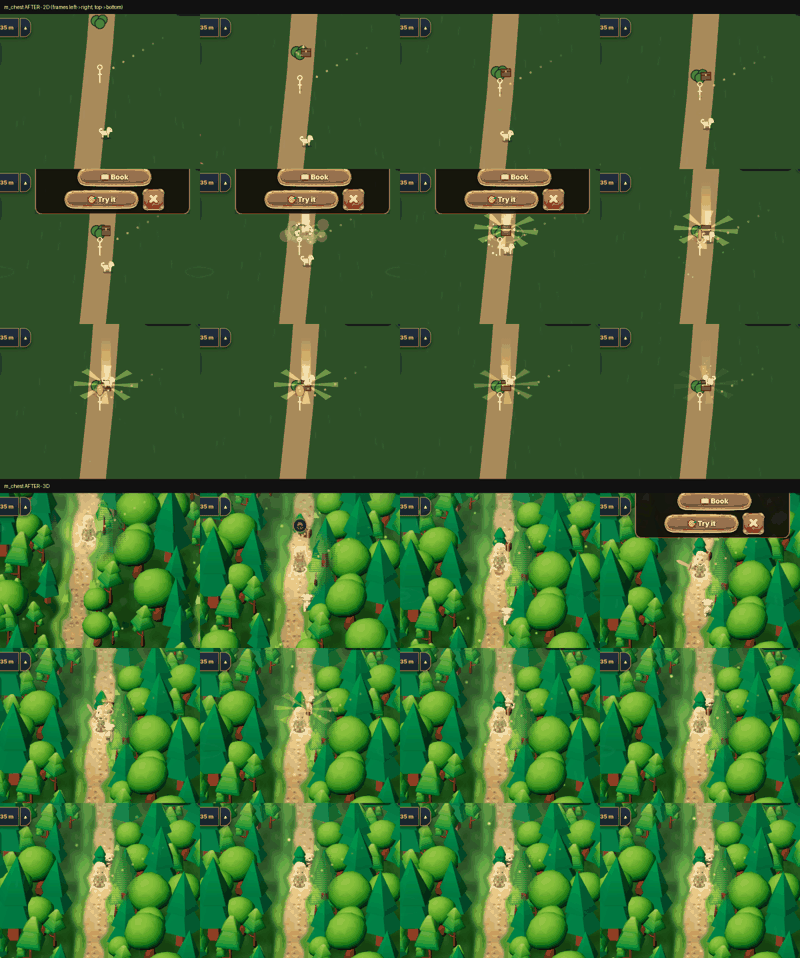
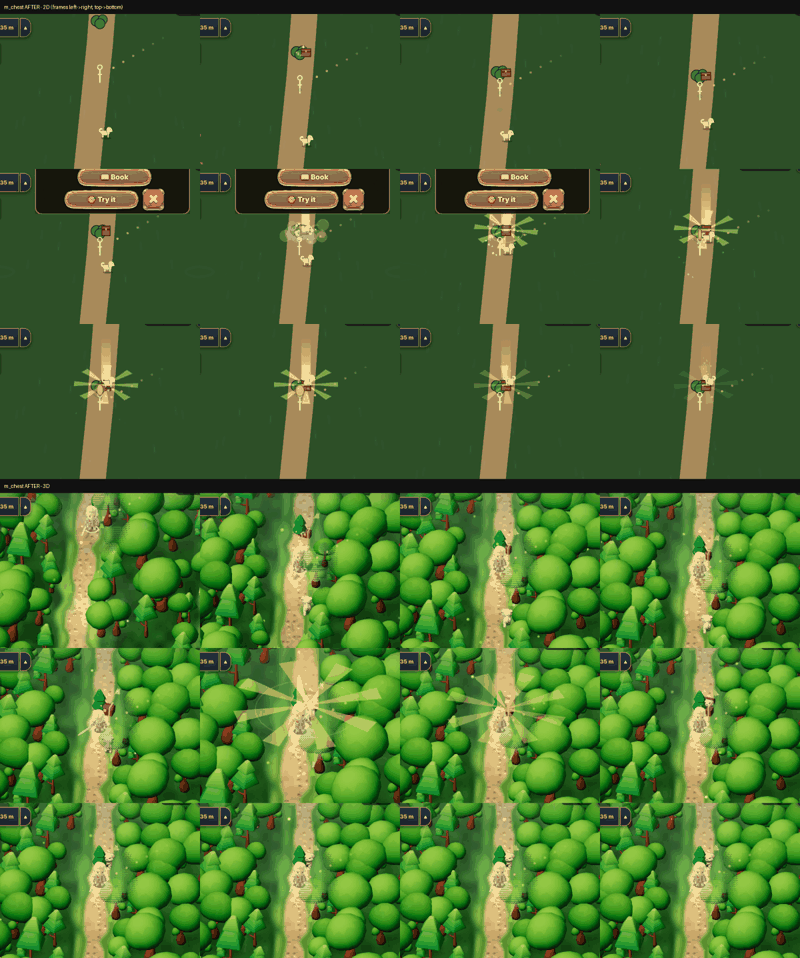
Chest moment: reads in 3D (bigger rays/pillar/ring/stars, larger model, camera nudge), skill reveal and Book card wait for it
Claude-Session: https://claude.ai/code/session_01ABMDoJj4BBf6WyqAyHbxiL

diff --git a/js/chest.js b/js/chest.js
@@ -22,12 +22,23 @@ const CHEST={
   rays:{n:8,len:95,w:0.13,spin:0.5,alpha:0.32,col:'#FFD866',fade:0.6},   // rays: count, length, width (radians), turns/second
   spark:{every:0.12,max:14,rise:38,life:1.4,col:'#FFE7A3',idle:0.9},     // floating sparks after the slam; idle: one every N seconds while waiting
   // equipment chance. tier p = percent for [wood, iron, silver, gold, legendary]; wood gets the rest. The cap is silver (2) in the meadow
+  // 3D (Nir plays in 3D, coordinator 9.11): the chest is small among trees, so the moment is bigger there
+  r3d:{k:1.9,model:1.35,stars:1.8,zoom:1.22,zin:0.25,zhold:0.7,zout:0.45},   // k: rays/pillar/ring size, model: chest scale, stars: star size, zoom: camera nudge (camZoom)
   gear:{chance:0.4,rolls:1,cap:2,p:[0,30,8,0,0]},
   n:0                                 // how many moments played (for the check)
 };
 
 const chOwn=s=>!!CHEST.ids[s.id];
 const chCalm=()=>(typeof calmOn==='function'&&calmOn())||(typeof RM!=='undefined'&&RM);
+// a moment is playing now: the skill reveal and the "Book / Try it" card wait for it (skillreveal.js, skguide.js)
+const chBusy=()=>!!(typeof S!=='undefined'&&S&&S.wd&&S.wd.sc&&S.wd.sc.ch&&Object.keys(S.wd.sc.ch).length);
+// camera nudge in 3D around the slam (camera.js multiplies camZoom by this). Rounded, since every change resizes the canvas
+function chZoom(){
+  if(!R3D.on||!chBusy())return 1;const Z=CHEST.r3d;let k=0;
+  for(const id in S.wd.sc.ch){const c=S.wd.sc.ch[id];if(c.calm)continue;const t=c.t,a=CHEST.t.slam-Z.zin;
+    const e=t<a?0:t<CHEST.t.slam?(t-a)/Z.zin:t<CHEST.t.slam+Z.zhold?1:Math.max(0,1-(t-CHEST.t.slam-Z.zhold)/Z.zout);k=Math.max(k,e*e*(3-2*e))}
+  return Math.round((1+(Z.zoom-1)*k)*50)/50;
+}
 const chSt=()=>{const st=scState();return st.ch||(st.ch={})};   // per world visit: {id:{t,done,sp:[],sl}}
 
 // called from secretsUpdate when the player touches a chest. true = this file handles it
@@ -54,7 +65,7 @@ function chUpdate(dt){
 function chSlam(c,cx,cy){
   const K=CHEST,s=c.s;
   if(!c.calm){jStop(K.stop,true);S.shake=Math.max(S.shake||0,K.shake)}
-  c.ring=0;jBurst(cx,cy-12,K.stars.col,c.calm?Math.round(K.stars.n/2):K.stars.n,null);sfx('hit',1.4);sfx('coin',1.2);
+  c.ring=0;const J=juice().p,j0=J.length;jBurst(cx,cy-12,K.stars.col,c.calm?Math.round(K.stars.n/2):K.stars.n,null);if(R3D.on)for(let i=j0;i<J.length;i++)J[i].sz*=K.r3d.stars;   // 3D: bigger starssfx('hit',1.4);sfx('coin',1.2);
   runGive(SECRETS.chest.loot,cx,cy);
   c.gear=chGear(cx,cy);
   scFind(s,cx,cy,true);   // the counter banner + save. quiet: no generic celebration, this moment replaces it
@@ -89,17 +100,17 @@ function chDraw(){
     const cx=s.x+PROPS3D.chest.dx,cy=s.y;
     // waiting: a soft glint over the lid now and then (the "something's in there")
     if(!c){const ph=now%K.spark.idle,j=Math.floor(now/K.spark.idle);if(!fxLess()&&ph<0.35)scTwinkle(cx+Math.sin(j*2.4)*9,cy-16-Math.abs(Math.cos(j*1.7))*6,ph/0.35);if(two)chBox(cx,cy,{rot:0,sx:1,sy:1,lid:0});continue}
-    const T_=c.calm?K.calmT:K.t,a=c.t-T_.slam,fade=Math.max(0,Math.min(1,(T_.end-c.t)/K.rays.fade));
+    const T_=c.calm?K.calmT:K.t,a=c.t-T_.slam,g=R3D.on?K.r3d.k:1,fade=Math.max(0,Math.min(1,(T_.end-c.t)/K.rays.fade));
     // 4. gold light from inside: a soft pillar and slow turning rays
     if(c.done&&fade>0){ctx.save();ctx.globalCompositeOperation='lighter';
-      const k=Math.min(1,a/0.15),R=K.rays,spin=c.calm?0:a*R.spin*6.28;ctx.globalAlpha=R.alpha*k*fade;ctx.fillStyle=R.col;
+      const k=Math.min(1,a/0.15),R=K.rays,spin=c.calm?0:a*R.spin*6.28,len=R.len*g;ctx.globalAlpha=Math.min(1,R.alpha*(R3D.on?1.6:1))*k*fade;ctx.fillStyle=R.col;
       const n=fxLess()?Math.ceil(R.n/2):R.n;
       for(let i=0;i<n;i++){const an=spin+i*6.28/n;ctx.beginPath();ctx.moveTo(cx,cy-10);
-        ctx.lineTo(cx+Math.cos(an-R.w)*R.len*k,cy-10+Math.sin(an-R.w)*R.len*k*0.6);ctx.lineTo(cx+Math.cos(an+R.w)*R.len*k,cy-10+Math.sin(an+R.w)*R.len*k*0.6);ctx.fill()}
-      const gr=ctx.createLinearGradient(0,cy-150,0,cy);gr.addColorStop(0,'rgba(255,216,102,0)');gr.addColorStop(1,R.col);
-      ctx.globalAlpha=0.45*k*fade;ctx.fillStyle=gr;ctx.fillRect(cx-14,cy-150,28,150);ctx.restore()}
+        ctx.lineTo(cx+Math.cos(an-R.w)*len*k,cy-10+Math.sin(an-R.w)*len*k*0.6);ctx.lineTo(cx+Math.cos(an+R.w)*len*k,cy-10+Math.sin(an+R.w)*len*k*0.6);ctx.fill()}
+      const ph=150*g,pw=14*g,gr=ctx.createLinearGradient(0,cy-ph,0,cy);gr.addColorStop(0,'rgba(255,216,102,0)');gr.addColorStop(1,R.col);
+      ctx.globalAlpha=Math.min(1,0.45*(R3D.on?1.6:1))*k*fade;ctx.fillStyle=gr;ctx.fillRect(cx-pw,cy-ph,pw*2,ph);ctx.restore()}
     // 5. shockwave ring
-    if(c.done&&a<K.ring.life){const k=a/K.ring.life,r=8+K.ring.r*k;ctx.globalAlpha=0.8*(1-k);ctx.strokeStyle=K.ring.col;ctx.lineWidth=4*(1-k)+1;
+    if(c.done&&a<K.ring.life){const k=a/K.ring.life,r=(8+K.ring.r*k)*g;ctx.globalAlpha=0.9*(1-k);ctx.strokeStyle=K.ring.col;ctx.lineWidth=(4*(1-k)+1)*(R3D.on?1.6:1);
       ctx.beginPath();ctx.ellipse(cx,cy,r,r*0.55,0,0,7);ctx.stroke();ctx.globalAlpha=1}
     if(two)chBox(cx,cy,chPose(c));
     // 7. tiny sparks floating up
@@ -120,7 +131,7 @@ function chBox(x,y,p){
 function chest3d(m,id){
   const c=S.wd&&chSt()[id];if(!c){if(m.userData.chP){m.rotation.z=0;m.scale.copy(m.userData.chS)}return false}
   const u=m.userData;if(!u.chS){u.chS=m.scale.clone();u.lid=m.children[1];u.lid0=u.lid.position.clone();u.chP=1}
-  const p=chPose(c),b=u.chS;m.rotation.z=p.rot;m.scale.set(b.x*p.sx,b.y*p.sy,b.z*p.sx);
+  const p=chPose(c),b=u.chS,z=CHEST.r3d.model;m.rotation.z=p.rot;m.scale.set(b.x*p.sx*z,b.y*p.sy*z,b.z*p.sx*z);
   const w=PROPS3D.chest.w;u.lid.position.set(u.lid0.x,u.lid0.y+p.lid*w*0.35,u.lid0.z-p.lid*w*0.3);u.lid.rotation.x=-p.lid*1.1;
   return true;
 }

diff --git a/js/camera.js b/js/camera.js
@@ -23,7 +23,7 @@ function camFightZoom(){const F=CAM.fight,now=performance.now()/1000,dt=Math.min
 function setFz(on){CAM.fight.on=on;try{localStorage.setItem('zm-fz',on?'1':'0')}catch(e){}showCam()}
 
 const camPlace=()=>S&&S.vil?'village':S&&S.wd?'world':'arena';
-function camZoom(){const p=camPlace(),k=typeof skrZoom==='function'?skrZoom():1;return p==='arena'?1:VIEW.zoom[p]*CAM.steps[CAM.cur]*k*camFightZoom()*giantZoom()*(typeof skcZoom==='function'?skcZoom():1)}   // giantZoom: ענק בעולם, המצלמה מתרחקת (giant.js)   // skrZoom: רגע גילוי של סקיל (skillreveal.js)   // skcZoom: דחיפה קטנה בהטלת סקיל גדול (skillcast.js)
+function camZoom(){const p=camPlace(),k=typeof skrZoom==='function'?skrZoom():1;return p==='arena'?1:VIEW.zoom[p]*CAM.steps[CAM.cur]*k*camFightZoom()*giantZoom()*(typeof skcZoom==='function'?skcZoom():1)*(typeof chZoom==='function'?chZoom():1)}   // giantZoom: ענק בעולם, המצלמה מתרחקת (giant.js)   // skrZoom: רגע גילוי של סקיל (skillreveal.js)   // skcZoom: דחיפה קטנה בהטלת סקיל גדול (skillcast.js)
 function camTilt(){const p=typeof S!=='undefined'?camPlace():'arena';return ((VIEW.tilt[p]||VIEW.tilt.arena)+(p==='arena'?0:CAM.angs[CAM.ang]))*Math.PI/180}
 // כמה רחוק קצה המסך מהמרכז בכיוון a (רדיאנים), ביחידות של המשחק. לאויבים שצריכים להופיע ממש מחוץ למסך (pacing.js)
 function camEdge(a){const c=Math.abs(Math.cos(a)),s=Math.abs(Math.sin(a));return Math.min(c>1e-3?W/2/c:1e9,s>1e-3?H/2/s:1e9)}

diff --git a/js/skguide.js b/js/skguide.js
@@ -56,7 +56,7 @@ let skgOfferT=0,skgPend=null;
 // חלון או תפריט פתוח: הכרטיס מחכה (כמו כרטיס הפגישה ב-foelore.js)
 // רק מה שבאמת על המסך: חלון שמוסתר ב-CSS (display:none, גם של אבא) לא נחשב
 const skgWins=()=>[...document.querySelectorAll('.ov,.win')].filter(o=>!o.hidden&&o.getClientRects().length);
-const skgBlocked=()=>document.body.classList.contains('menu')||skgWins().length>0;
+const skgBlocked=()=>document.body.classList.contains('menu')||skgWins().length>0||(typeof chBusy==='function'&&chBusy());   // chBusy: a chest is opening (chest.js), the card waits
 function skgOffer(id){
   if(!S||!S.wd||!SKILLS.list[id])return;
   if(skgBlocked()){skgPend=id;return}

diff --git a/js/skillreveal.js b/js/skillreveal.js
@@ -32,7 +32,7 @@ const skrStat={starts:0,ends:0,skips:0,big:0};   // בשביל הבוט
 
 // נקרא מ-wskUpdate בכל פריים שהעולם רץ: יש סקיל שעוד לא ראינו?
 function skrCheck(dt){
-  if(SKR||!S.wd||S.room||S.mode!=='play'||!S.sk)return;
+  if(SKR||!S.wd||S.room||S.mode!=='play'||!S.sk||typeof chBusy==='function'&&chBusy())return;   // chBusy: a chest is opening (chest.js), the reveal waits
   S.skrT=(S.skrT||0)+dt;if(S.skrT<SKREVEAL.delay)return;
   const id=S.sk.ids.find(i=>!skrSeen().includes(i))||(typeof sigReveal==='function'&&sigReveal());if(id)skrStart(id);   // גם סקיל החתימה של הדרגה (sigskill.js)
 }
